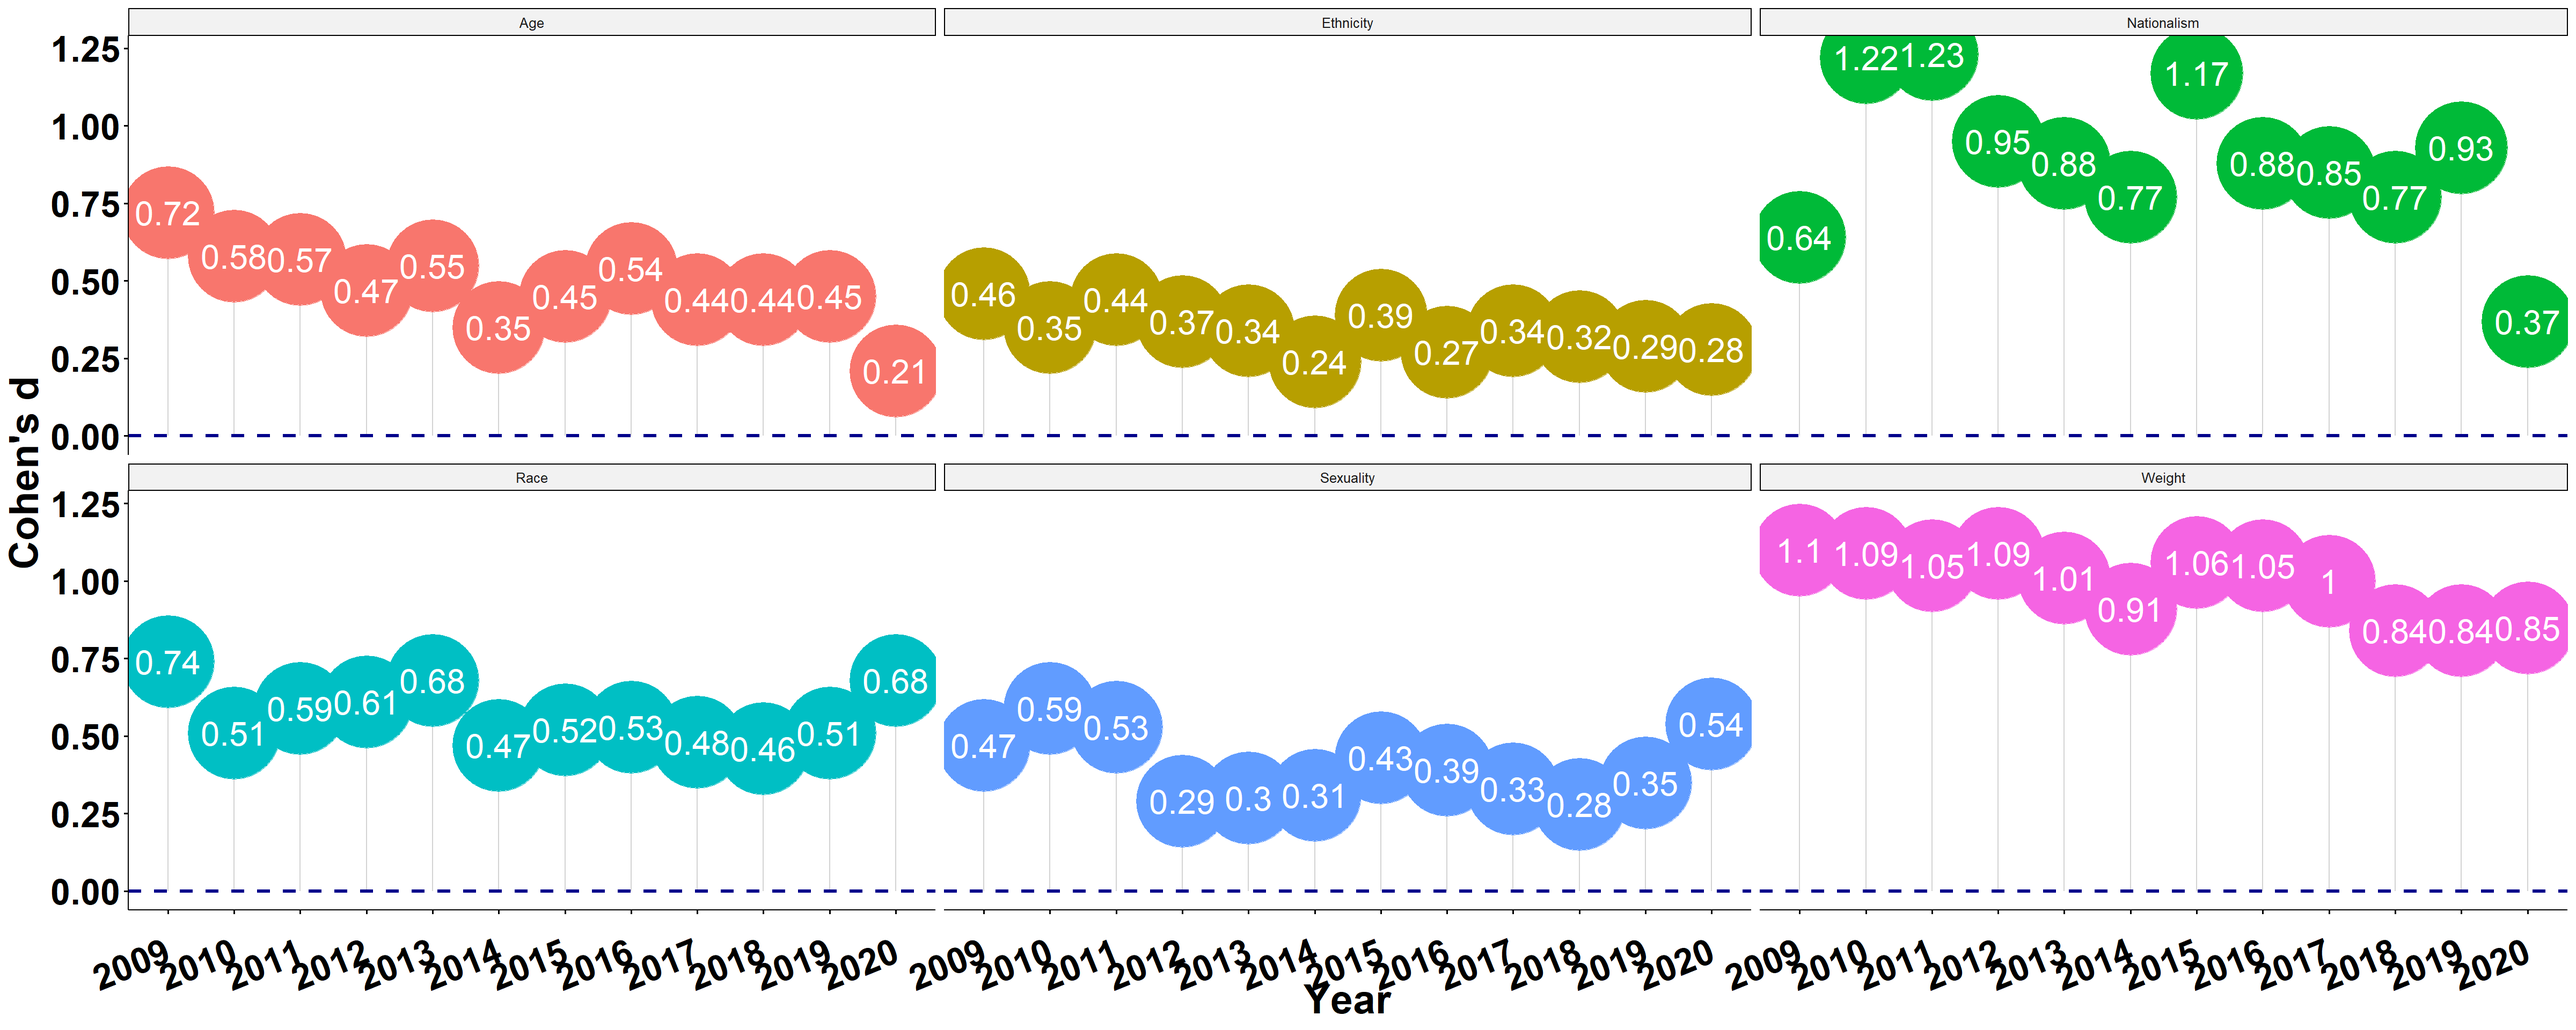
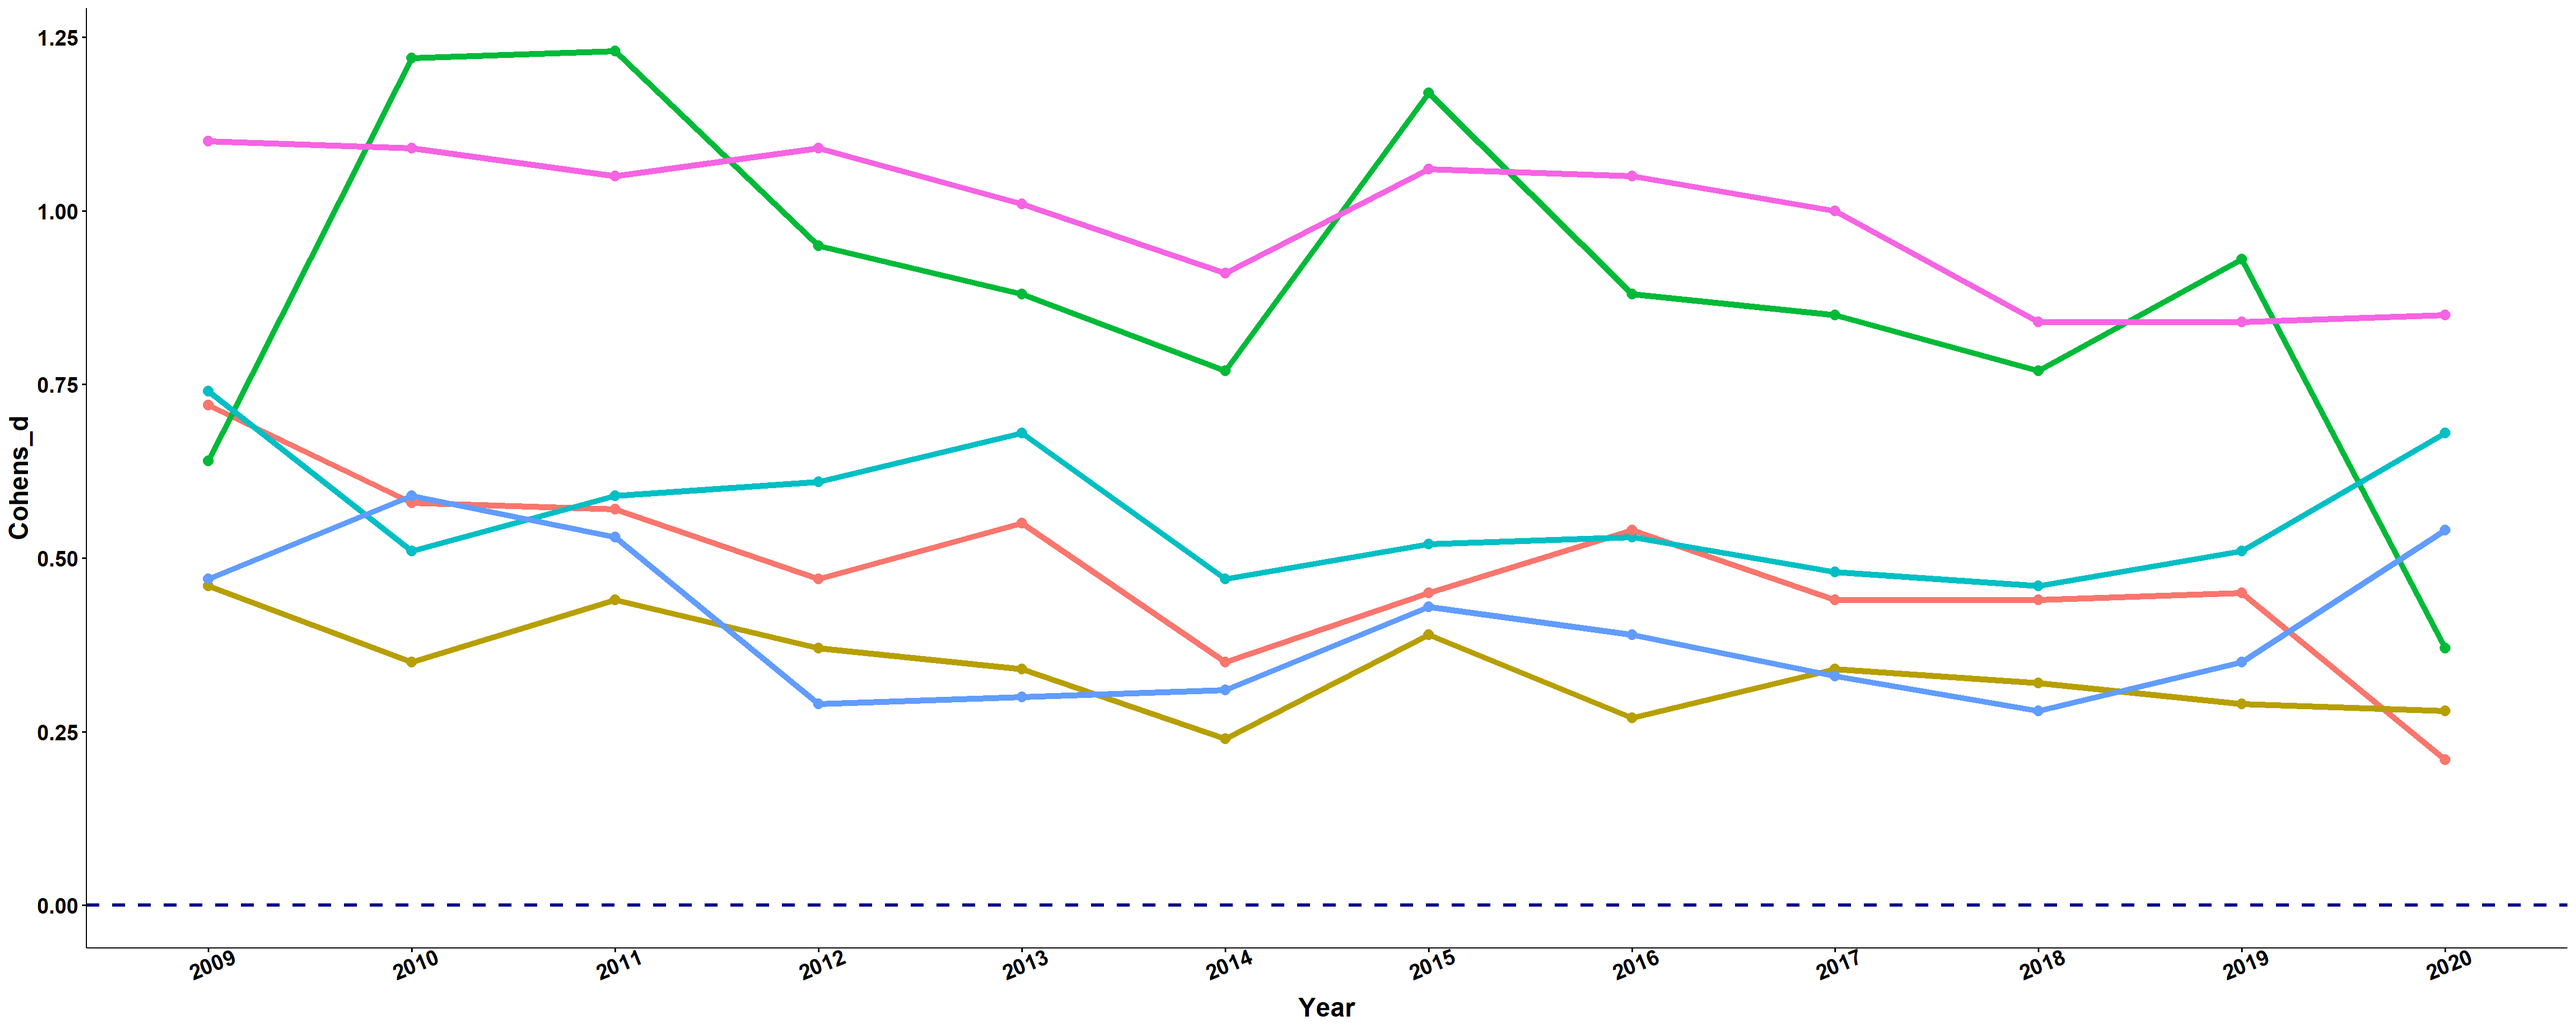
israel post: resize figs: attempt 4

diff --git a/public/post/biases-in-israel/index.html b/public/post/biases-in-israel/index.html
@@ -59,7 +59,7 @@
   "headline": "Biases in Israel",
   "description" : "Read about the implict and explicit biases in Israel",
   "inLanguage" : "en",
-  "wordCount":  2776 ,
+  "wordCount":  2656 ,
   "datePublished" : "2020-10-01T00:00:00",
   "dateModified" : "2020-10-01T00:00:00",
   "image" : "https:\/\/pi-international-blog.netlify.app\/img\/logo.png",
@@ -239,7 +239,7 @@
   
   
   
-    &nbsp;|&nbsp;<i class="fas fa-book"></i>&nbsp;2776&nbsp;words
+    &nbsp;|&nbsp;<i class="fas fa-book"></i>&nbsp;2656&nbsp;words
   
   
     
@@ -618,20 +618,17 @@ thermo_df &lt;- df %&gt;% mutate(params = purrr::map(.x = data, .f = ~get_es_thr
 <pre class="r"><code>iat_df$Year = factor(iat_df$Year, c(&quot;2009&quot;, &quot;2010&quot;, &quot;2011&quot;, &quot;2012&quot;, 
     &quot;2013&quot;, &quot;2014&quot;, &quot;2015&quot;, &quot;2016&quot;, &quot;2017&quot;, &quot;2018&quot;, &quot;2019&quot;, &quot;2020&quot;))
 
-pp &lt;- ggdotchart(iat_df, x = &quot;Year&quot;, y = &quot;Cohens_d&quot;, color = &quot;Task&quot;, 
-    ylab = &quot;Cohen&#39;s d&quot;, sorting = &quot;none&quot;, order = NULL, combine = F, 
-    add = &quot;segments&quot;, facet = &quot;Task&quot;, rotate = F, dot.size = 30, 
-    label = round(iat_df$Cohens_d, 3), font.label = list(color = &quot;white&quot;, 
-        size = 25, vjust = 0.5), ggtheme = theme_pubr())
+pp &lt;- ggline(iat_df, x = &quot;Year&quot;, y = &quot;Cohens_d&quot;, color = &quot;Task&quot;, 
+    size = 2)
 
 pp &lt;- pp + geom_hline(yintercept = 0, linetype = &quot;dashed&quot;, color = &quot;darkblue&quot;, 
     size = 1.2) + theme(axis.text.x = element_text(angle = 22))
 
-pp &lt;- pp + font(&quot;title&quot;, size = 30, color = &quot;black&quot;, face = &quot;bold&quot;) + 
-    font(&quot;legend.text&quot;, size = 26, color = &quot;black&quot;, face = &quot;bold&quot;) + 
-    font(&quot;xlab&quot;, size = 28, color = &quot;black&quot;, face = &quot;bold&quot;) + 
-    font(&quot;ylab&quot;, size = 28, color = &quot;black&quot;, face = &quot;bold&quot;) + 
-    font(&quot;xy.text&quot;, size = 25, color = &quot;black&quot;, face = &quot;bold&quot;)
+pp &lt;- pp + font(&quot;title&quot;, size = 20, color = &quot;black&quot;, face = &quot;bold&quot;) + 
+    font(&quot;legend.text&quot;, size = 16, color = &quot;black&quot;, face = &quot;bold&quot;) + 
+    font(&quot;xlab&quot;, size = 18, color = &quot;black&quot;, face = &quot;bold&quot;) + 
+    font(&quot;ylab&quot;, size = 18, color = &quot;black&quot;, face = &quot;bold&quot;) + 
+    font(&quot;xy.text&quot;, size = 15, color = &quot;black&quot;, face = &quot;bold&quot;)
 pp &lt;- pp + theme(legend.position = &quot;none&quot;)
 
 pp</code></pre>
@@ -642,20 +639,17 @@ pp</code></pre>
 <pre class="r"><code>att_df$Year = factor(att_df$Year, c(&quot;2009&quot;, &quot;2010&quot;, &quot;2011&quot;, &quot;2012&quot;, 
     &quot;2013&quot;, &quot;2014&quot;, &quot;2015&quot;, &quot;2016&quot;, &quot;2017&quot;, &quot;2018&quot;, &quot;2019&quot;, &quot;2020&quot;))
 
-pp &lt;- ggdotchart(att_df, x = &quot;Year&quot;, y = &quot;Cohens_d&quot;, color = &quot;Task&quot;, 
-    ylab = &quot;Cohen&#39;s d&quot;, sorting = &quot;none&quot;, order = NULL, combine = F, 
-    add = &quot;segments&quot;, facet = &quot;Task&quot;, rotate = F, dot.size = 30, 
-    label = round(att_df$Cohens_d, 3), font.label = list(color = &quot;white&quot;, 
-        size = 25, vjust = 0.5), ggtheme = theme_pubr())
+pp &lt;- ggline(att_df, x = &quot;Year&quot;, y = &quot;Cohens_d&quot;, color = &quot;Task&quot;, 
+    size = 2)
 
 pp &lt;- pp + geom_hline(yintercept = 0, linetype = &quot;dashed&quot;, color = &quot;darkblue&quot;, 
     size = 1.2) + theme(axis.text.x = element_text(angle = 22))
 
-pp &lt;- pp + font(&quot;title&quot;, size = 30, color = &quot;black&quot;, face = &quot;bold&quot;) + 
-    font(&quot;legend.text&quot;, size = 26, color = &quot;black&quot;, face = &quot;bold&quot;) + 
-    font(&quot;xlab&quot;, size = 28, color = &quot;black&quot;, face = &quot;bold&quot;) + 
-    font(&quot;ylab&quot;, size = 28, color = &quot;black&quot;, face = &quot;bold&quot;) + 
-    font(&quot;xy.text&quot;, size = 25, color = &quot;black&quot;, face = &quot;bold&quot;)
+pp &lt;- pp + font(&quot;title&quot;, size = 20, color = &quot;black&quot;, face = &quot;bold&quot;) + 
+    font(&quot;legend.text&quot;, size = 16, color = &quot;black&quot;, face = &quot;bold&quot;) + 
+    font(&quot;xlab&quot;, size = 18, color = &quot;black&quot;, face = &quot;bold&quot;) + 
+    font(&quot;ylab&quot;, size = 18, color = &quot;black&quot;, face = &quot;bold&quot;) + 
+    font(&quot;xy.text&quot;, size = 15, color = &quot;black&quot;, face = &quot;bold&quot;)
 pp &lt;- pp + theme(legend.position = &quot;none&quot;)
 
 pp</code></pre>
@@ -667,20 +661,17 @@ pp</code></pre>
     &quot;2012&quot;, &quot;2013&quot;, &quot;2014&quot;, &quot;2015&quot;, &quot;2016&quot;, &quot;2017&quot;, &quot;2018&quot;, &quot;2019&quot;, 
     &quot;2020&quot;))
 
-pp &lt;- ggdotchart(thermo_df, x = &quot;Year&quot;, y = &quot;Cohens_d&quot;, color = &quot;Task&quot;, 
-    ylab = &quot;Cohen&#39;s d&quot;, sorting = &quot;none&quot;, order = NULL, combine = F, 
-    add = &quot;segments&quot;, facet = &quot;Task&quot;, rotate = F, dot.size = 30, 
-    label = round(thermo_df$Cohens_d, 3), font.label = list(color = &quot;white&quot;, 
-        size = 25, vjust = 0.5), ggtheme = theme_pubr())
+pp &lt;- ggline(thermo_df, x = &quot;Year&quot;, y = &quot;Cohens_d&quot;, color = &quot;Task&quot;, 
+    size = 2)
 
 pp &lt;- pp + geom_hline(yintercept = 0, linetype = &quot;dashed&quot;, color = &quot;darkblue&quot;, 
     size = 1.2) + theme(axis.text.x = element_text(angle = 22))
 
-pp &lt;- pp + font(&quot;title&quot;, size = 30, color = &quot;black&quot;, face = &quot;bold&quot;) + 
-    font(&quot;legend.text&quot;, size = 26, color = &quot;black&quot;, face = &quot;bold&quot;) + 
-    font(&quot;xlab&quot;, size = 28, color = &quot;black&quot;, face = &quot;bold&quot;) + 
-    font(&quot;ylab&quot;, size = 28, color = &quot;black&quot;, face = &quot;bold&quot;) + 
-    font(&quot;xy.text&quot;, size = 25, color = &quot;black&quot;, face = &quot;bold&quot;)
+pp &lt;- pp + font(&quot;title&quot;, size = 20, color = &quot;black&quot;, face = &quot;bold&quot;) + 
+    font(&quot;legend.text&quot;, size = 16, color = &quot;black&quot;, face = &quot;bold&quot;) + 
+    font(&quot;xlab&quot;, size = 18, color = &quot;black&quot;, face = &quot;bold&quot;) + 
+    font(&quot;ylab&quot;, size = 18, color = &quot;black&quot;, face = &quot;bold&quot;) + 
+    font(&quot;xy.text&quot;, size = 15, color = &quot;black&quot;, face = &quot;bold&quot;)
 pp &lt;- pp + theme(legend.position = &quot;none&quot;)
 
 pp</code></pre>

diff --git a/content/post/2020-10-01-biases-in-israel.en.html b/content/post/2020-10-01-biases-in-israel.en.html
@@ -381,20 +381,17 @@ thermo_df &lt;- df %&gt;% mutate(params = purrr::map(.x = data, .f = ~get_es_thr
 <pre class="r"><code>iat_df$Year = factor(iat_df$Year, c(&quot;2009&quot;, &quot;2010&quot;, &quot;2011&quot;, &quot;2012&quot;, 
     &quot;2013&quot;, &quot;2014&quot;, &quot;2015&quot;, &quot;2016&quot;, &quot;2017&quot;, &quot;2018&quot;, &quot;2019&quot;, &quot;2020&quot;))
 
-pp &lt;- ggdotchart(iat_df, x = &quot;Year&quot;, y = &quot;Cohens_d&quot;, color = &quot;Task&quot;, 
-    ylab = &quot;Cohen&#39;s d&quot;, sorting = &quot;none&quot;, order = NULL, combine = F, 
-    add = &quot;segments&quot;, facet = &quot;Task&quot;, rotate = F, dot.size = 30, 
-    label = round(iat_df$Cohens_d, 3), font.label = list(color = &quot;white&quot;, 
-        size = 25, vjust = 0.5), ggtheme = theme_pubr())
+pp &lt;- ggline(iat_df, x = &quot;Year&quot;, y = &quot;Cohens_d&quot;, color = &quot;Task&quot;, 
+    size = 2)
 
 pp &lt;- pp + geom_hline(yintercept = 0, linetype = &quot;dashed&quot;, color = &quot;darkblue&quot;, 
     size = 1.2) + theme(axis.text.x = element_text(angle = 22))
 
-pp &lt;- pp + font(&quot;title&quot;, size = 30, color = &quot;black&quot;, face = &quot;bold&quot;) + 
-    font(&quot;legend.text&quot;, size = 26, color = &quot;black&quot;, face = &quot;bold&quot;) + 
-    font(&quot;xlab&quot;, size = 28, color = &quot;black&quot;, face = &quot;bold&quot;) + 
-    font(&quot;ylab&quot;, size = 28, color = &quot;black&quot;, face = &quot;bold&quot;) + 
-    font(&quot;xy.text&quot;, size = 25, color = &quot;black&quot;, face = &quot;bold&quot;)
+pp &lt;- pp + font(&quot;title&quot;, size = 20, color = &quot;black&quot;, face = &quot;bold&quot;) + 
+    font(&quot;legend.text&quot;, size = 16, color = &quot;black&quot;, face = &quot;bold&quot;) + 
+    font(&quot;xlab&quot;, size = 18, color = &quot;black&quot;, face = &quot;bold&quot;) + 
+    font(&quot;ylab&quot;, size = 18, color = &quot;black&quot;, face = &quot;bold&quot;) + 
+    font(&quot;xy.text&quot;, size = 15, color = &quot;black&quot;, face = &quot;bold&quot;)
 pp &lt;- pp + theme(legend.position = &quot;none&quot;)
 
 pp</code></pre>
@@ -405,20 +402,17 @@ pp</code></pre>
 <pre class="r"><code>att_df$Year = factor(att_df$Year, c(&quot;2009&quot;, &quot;2010&quot;, &quot;2011&quot;, &quot;2012&quot;, 
     &quot;2013&quot;, &quot;2014&quot;, &quot;2015&quot;, &quot;2016&quot;, &quot;2017&quot;, &quot;2018&quot;, &quot;2019&quot;, &quot;2020&quot;))
 
-pp &lt;- ggdotchart(att_df, x = &quot;Year&quot;, y = &quot;Cohens_d&quot;, color = &quot;Task&quot;, 
-    ylab = &quot;Cohen&#39;s d&quot;, sorting = &quot;none&quot;, order = NULL, combine = F, 
-    add = &quot;segments&quot;, facet = &quot;Task&quot;, rotate = F, dot.size = 30, 
-    label = round(att_df$Cohens_d, 3), font.label = list(color = &quot;white&quot;, 
-        size = 25, vjust = 0.5), ggtheme = theme_pubr())
+pp &lt;- ggline(att_df, x = &quot;Year&quot;, y = &quot;Cohens_d&quot;, color = &quot;Task&quot;, 
+    size = 2)
 
 pp &lt;- pp + geom_hline(yintercept = 0, linetype = &quot;dashed&quot;, color = &quot;darkblue&quot;, 
     size = 1.2) + theme(axis.text.x = element_text(angle = 22))
 
-pp &lt;- pp + font(&quot;title&quot;, size = 30, color = &quot;black&quot;, face = &quot;bold&quot;) + 
-    font(&quot;legend.text&quot;, size = 26, color = &quot;black&quot;, face = &quot;bold&quot;) + 
-    font(&quot;xlab&quot;, size = 28, color = &quot;black&quot;, face = &quot;bold&quot;) + 
-    font(&quot;ylab&quot;, size = 28, color = &quot;black&quot;, face = &quot;bold&quot;) + 
-    font(&quot;xy.text&quot;, size = 25, color = &quot;black&quot;, face = &quot;bold&quot;)
+pp &lt;- pp + font(&quot;title&quot;, size = 20, color = &quot;black&quot;, face = &quot;bold&quot;) + 
+    font(&quot;legend.text&quot;, size = 16, color = &quot;black&quot;, face = &quot;bold&quot;) + 
+    font(&quot;xlab&quot;, size = 18, color = &quot;black&quot;, face = &quot;bold&quot;) + 
+    font(&quot;ylab&quot;, size = 18, color = &quot;black&quot;, face = &quot;bold&quot;) + 
+    font(&quot;xy.text&quot;, size = 15, color = &quot;black&quot;, face = &quot;bold&quot;)
 pp &lt;- pp + theme(legend.position = &quot;none&quot;)
 
 pp</code></pre>
@@ -430,20 +424,17 @@ pp</code></pre>
     &quot;2012&quot;, &quot;2013&quot;, &quot;2014&quot;, &quot;2015&quot;, &quot;2016&quot;, &quot;2017&quot;, &quot;2018&quot;, &quot;2019&quot;, 
     &quot;2020&quot;))
 
-pp &lt;- ggdotchart(thermo_df, x = &quot;Year&quot;, y = &quot;Cohens_d&quot;, color = &quot;Task&quot;, 
-    ylab = &quot;Cohen&#39;s d&quot;, sorting = &quot;none&quot;, order = NULL, combine = F, 
-    add = &quot;segments&quot;, facet = &quot;Task&quot;, rotate = F, dot.size = 30, 
-    label = round(thermo_df$Cohens_d, 3), font.label = list(color = &quot;white&quot;, 
-        size = 25, vjust = 0.5), ggtheme = theme_pubr())
+pp &lt;- ggline(thermo_df, x = &quot;Year&quot;, y = &quot;Cohens_d&quot;, color = &quot;Task&quot;, 
+    size = 2)
 
 pp &lt;- pp + geom_hline(yintercept = 0, linetype = &quot;dashed&quot;, color = &quot;darkblue&quot;, 
     size = 1.2) + theme(axis.text.x = element_text(angle = 22))
 
-pp &lt;- pp + font(&quot;title&quot;, size = 30, color = &quot;black&quot;, face = &quot;bold&quot;) + 
-    font(&quot;legend.text&quot;, size = 26, color = &quot;black&quot;, face = &quot;bold&quot;) + 
-    font(&quot;xlab&quot;, size = 28, color = &quot;black&quot;, face = &quot;bold&quot;) + 
-    font(&quot;ylab&quot;, size = 28, color = &quot;black&quot;, face = &quot;bold&quot;) + 
-    font(&quot;xy.text&quot;, size = 25, color = &quot;black&quot;, face = &quot;bold&quot;)
+pp &lt;- pp + font(&quot;title&quot;, size = 20, color = &quot;black&quot;, face = &quot;bold&quot;) + 
+    font(&quot;legend.text&quot;, size = 16, color = &quot;black&quot;, face = &quot;bold&quot;) + 
+    font(&quot;xlab&quot;, size = 18, color = &quot;black&quot;, face = &quot;bold&quot;) + 
+    font(&quot;ylab&quot;, size = 18, color = &quot;black&quot;, face = &quot;bold&quot;) + 
+    font(&quot;xy.text&quot;, size = 15, color = &quot;black&quot;, face = &quot;bold&quot;)
 pp &lt;- pp + theme(legend.position = &quot;none&quot;)
 
 pp</code></pre>

diff --git a/public/categories/age-iat/index.html b/public/categories/age-iat/index.html
@@ -215,7 +215,7 @@
   
   
   
-    &nbsp;|&nbsp;<i class="fas fa-book"></i>&nbsp;2776&nbsp;words
+    &nbsp;|&nbsp;<i class="fas fa-book"></i>&nbsp;2656&nbsp;words
   
   
     

diff --git a/public/categories/ethnicity-iat/index.html b/public/categories/ethnicity-iat/index.html
@@ -215,7 +215,7 @@
   
   
   
-    &nbsp;|&nbsp;<i class="fas fa-book"></i>&nbsp;2776&nbsp;words
+    &nbsp;|&nbsp;<i class="fas fa-book"></i>&nbsp;2656&nbsp;words
   
   
     

diff --git a/public/categories/gender-science-iat/index.html b/public/categories/gender-science-iat/index.html
@@ -215,7 +215,7 @@
   
   
   
-    &nbsp;|&nbsp;<i class="fas fa-book"></i>&nbsp;2776&nbsp;words
+    &nbsp;|&nbsp;<i class="fas fa-book"></i>&nbsp;2656&nbsp;words
   
   
     

diff --git a/public/categories/iat/index.html b/public/categories/iat/index.html
@@ -215,7 +215,7 @@
   
   
   
-    &nbsp;|&nbsp;<i class="fas fa-book"></i>&nbsp;2776&nbsp;words
+    &nbsp;|&nbsp;<i class="fas fa-book"></i>&nbsp;2656&nbsp;words
   
   
     

diff --git a/public/categories/israel/index.html b/public/categories/israel/index.html
@@ -215,7 +215,7 @@
   
   
   
-    &nbsp;|&nbsp;<i class="fas fa-book"></i>&nbsp;2776&nbsp;words
+    &nbsp;|&nbsp;<i class="fas fa-book"></i>&nbsp;2656&nbsp;words
   
   
     

diff --git a/public/categories/nationalism-iat/index.html b/public/categories/nationalism-iat/index.html
@@ -215,7 +215,7 @@
   
   
   
-    &nbsp;|&nbsp;<i class="fas fa-book"></i>&nbsp;2776&nbsp;words
+    &nbsp;|&nbsp;<i class="fas fa-book"></i>&nbsp;2656&nbsp;words
   
   
     

diff --git a/public/categories/race-iat/index.html b/public/categories/race-iat/index.html
@@ -215,7 +215,7 @@
   
   
   
-    &nbsp;|&nbsp;<i class="fas fa-book"></i>&nbsp;2776&nbsp;words
+    &nbsp;|&nbsp;<i class="fas fa-book"></i>&nbsp;2656&nbsp;words
   
   
     

diff --git a/public/categories/sexuality-iat/index.html b/public/categories/sexuality-iat/index.html
@@ -215,7 +215,7 @@
   
   
   
-    &nbsp;|&nbsp;<i class="fas fa-book"></i>&nbsp;2776&nbsp;words
+    &nbsp;|&nbsp;<i class="fas fa-book"></i>&nbsp;2656&nbsp;words
   
   
     

diff --git a/public/categories/skin-iat/index.html b/public/categories/skin-iat/index.html
@@ -215,7 +215,7 @@
   
   
   
-    &nbsp;|&nbsp;<i class="fas fa-book"></i>&nbsp;2776&nbsp;words
+    &nbsp;|&nbsp;<i class="fas fa-book"></i>&nbsp;2656&nbsp;words
   
   
     

diff --git a/public/categories/weight-iat/index.html b/public/categories/weight-iat/index.html
@@ -215,7 +215,7 @@
   
   
   
-    &nbsp;|&nbsp;<i class="fas fa-book"></i>&nbsp;2776&nbsp;words
+    &nbsp;|&nbsp;<i class="fas fa-book"></i>&nbsp;2656&nbsp;words
   
   
     
